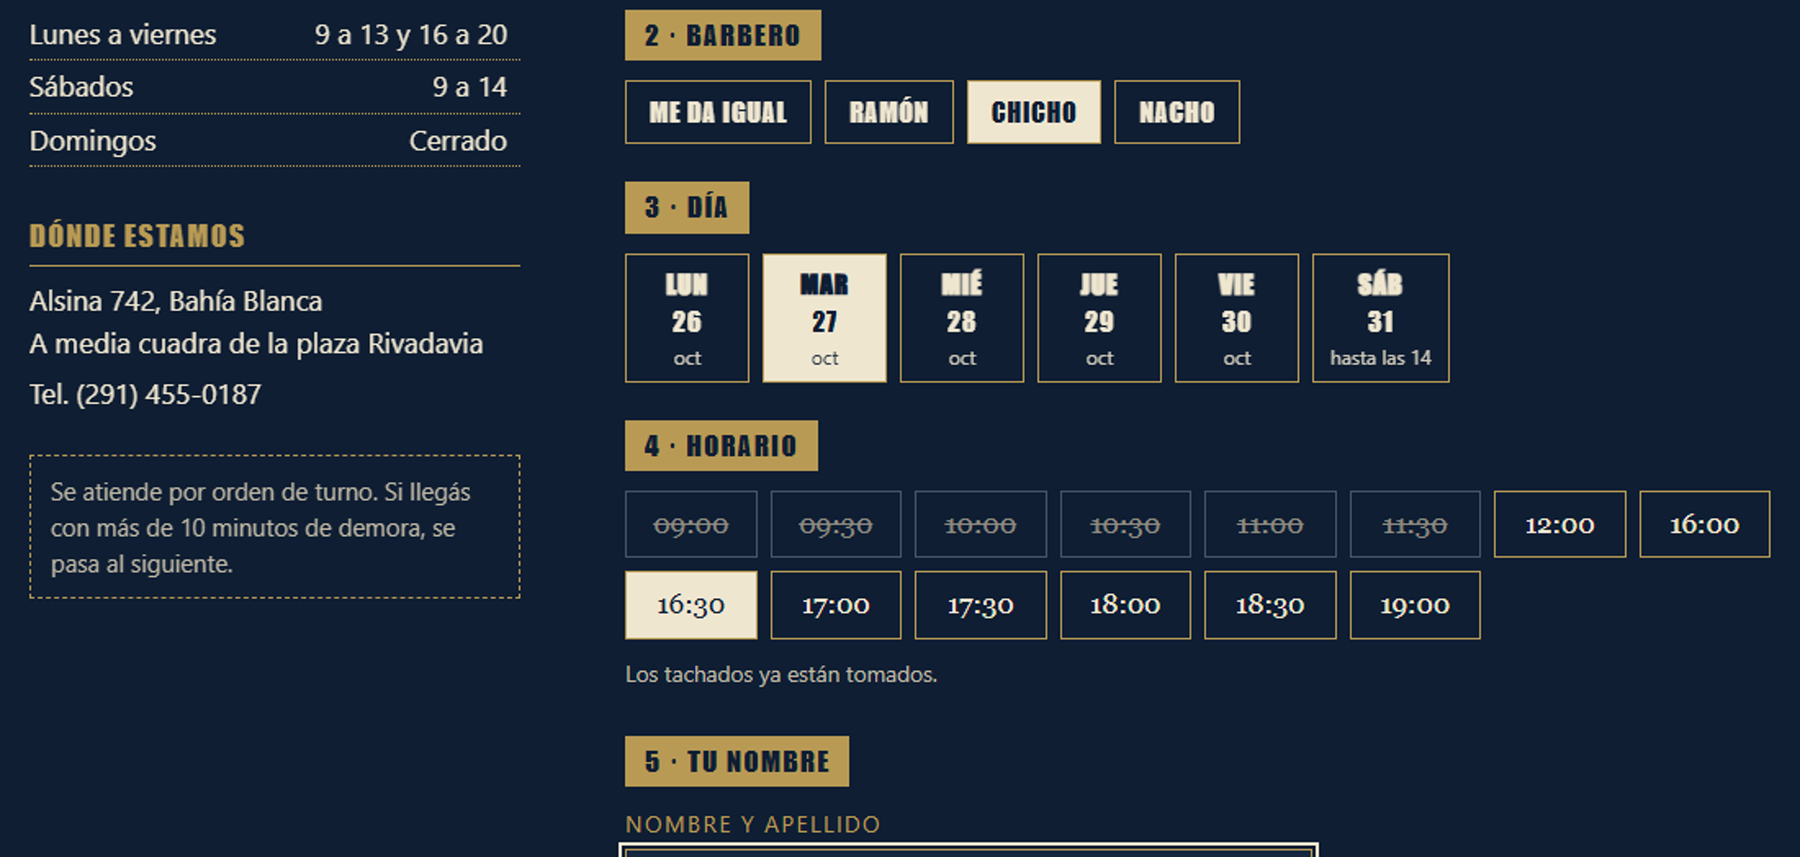
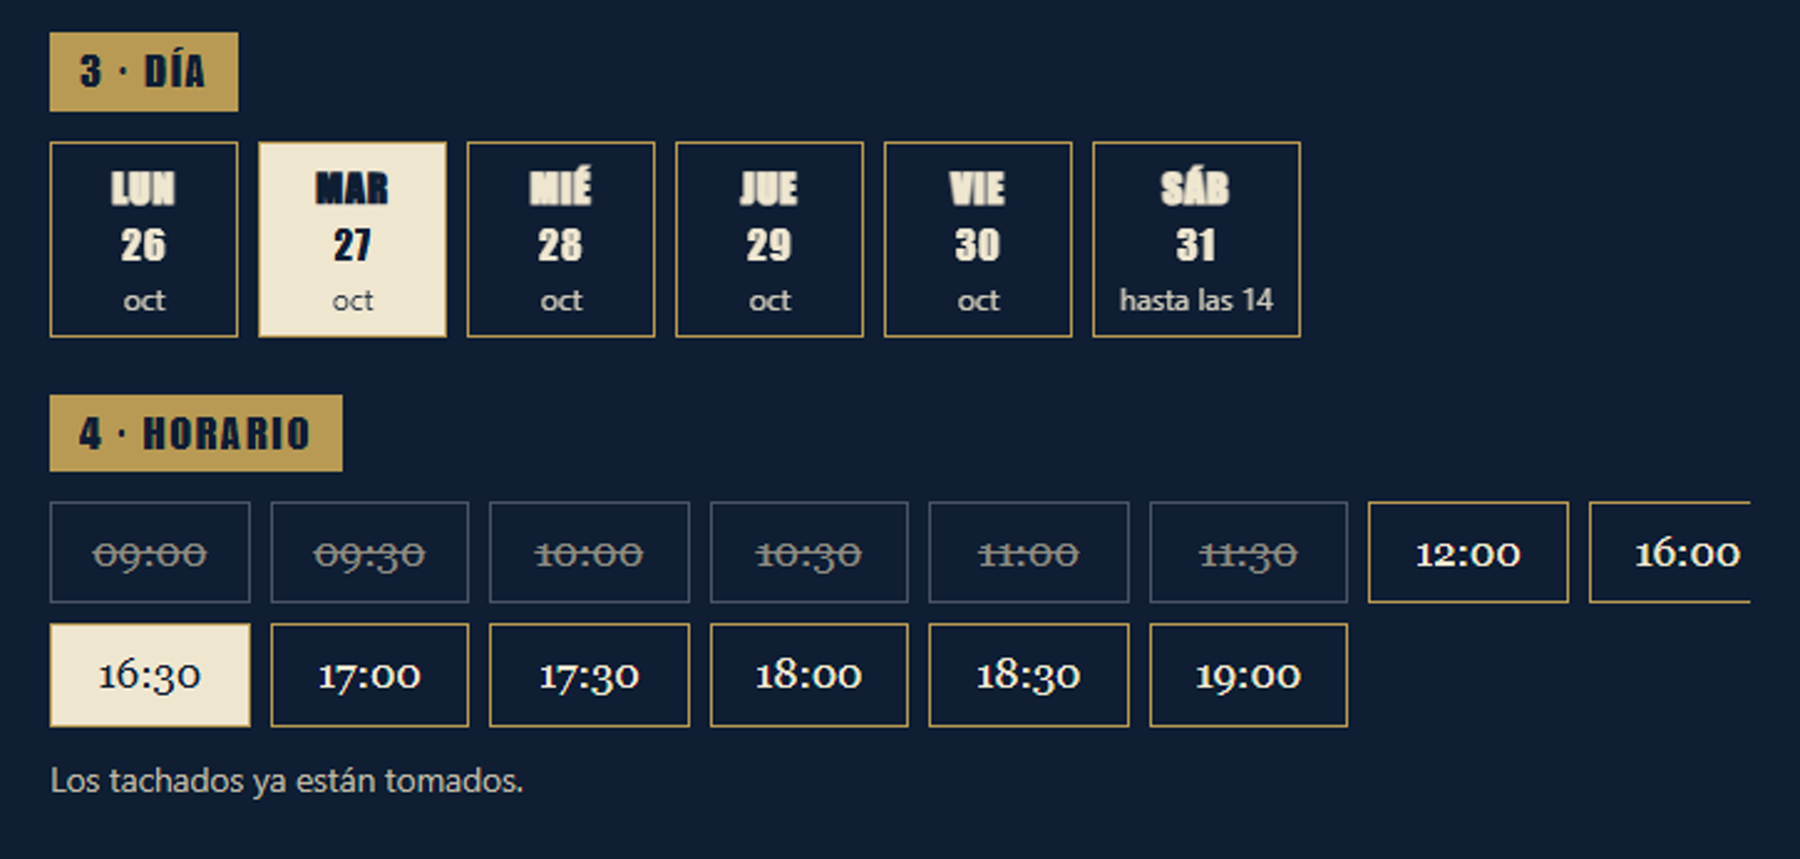
Renombra a Barbería Rivadavia, direccion y barbero Hugo

diff --git a/src/turnos.test.js b/src/turnos.test.js
@@ -37,7 +37,7 @@ test('sábado corta a las 14 y domingo no tiene horarios', () => {
 })
 
 test('los ocupados son estables: mismo dato, mismo resultado', () => {
-  assert.equal(barberoOcupado('2026-10-26', 'ramon', '10:00'), barberoOcupado('2026-10-26', 'ramon', '10:00'))
+  assert.equal(barberoOcupado('2026-10-26', 'hugo', '10:00'), barberoOcupado('2026-10-26', 'hugo', '10:00'))
   const a = grilla('2026-10-26', 30, 'nacho')
   const b = grilla('2026-10-26', 30, 'nacho')
   assert.deepEqual(a, b)
@@ -73,7 +73,7 @@ test('faltantes y su texto', () => {
 test('el mensaje trae todos los datos y el link está codificado', () => {
   const datos = { servicio: servicios[2], barbero: barberos[0], fecha: '2026-10-27', hora: '10:30', nombre: ' Leo ' }
   const m = mensaje(datos, negocio)
-  for (const parte of ['Leo', 'Corte y barba', '60 min', '$15.000', 'Ramón', 'martes 27 de octubre', '10:30']) {
+  for (const parte of ['Leo', 'Corte y barba', '60 min', '$15.000', 'Hola, Barbería Rivadavia.', 'Hugo','martes 27 de octubre', '10:30']) {
     assert.ok(m.includes(parte), parte)
   }
   const url = linkWhatsapp(datos, negocio)

diff --git a/src/config.js b/src/config.js
@@ -1,10 +1,10 @@
 // Datos del negocio. Para adaptarlo a otra barbería, cambiá solo este archivo.
 export const negocio = {
-  nombre: 'Don Ramón',
+  nombre: 'Barbería Rivadavia',
   telefono: '5491112345678', // número de ejemplo para wa.me
   telefonoVisible: '(291) 455-0187',
-  direccion: 'Alsina 742, Bahía Blanca',
-  referencia: 'A media cuadra de la plaza Rivadavia',
+  direccion: 'Rivadavia 640, Bahía Blanca',
+  referencia: 'Casi esquina Brown',
   desde: 1974,
 }
 
@@ -34,7 +34,7 @@ export const servicios = [
 ]
 
 export const barberos = [
-  { id: 'ramon', nombre: 'Ramón' },
+  { id: 'hugo', nombre: 'Hugo' },
   { id: 'chicho', nombre: 'Chicho' },
   { id: 'nacho', nombre: 'Nacho' },
 ]

diff --git a/src/styles.css b/src/styles.css
@@ -78,7 +78,7 @@ input[type=radio] { position: absolute; opacity: 0; pointer-events: none; }
   font: inherit; font-family: Georgia, serif; padding: 7px 0; background: transparent; color: var(--crema);
   border: 1px solid var(--laton); cursor: pointer;
 }
-.hora:hover:not(:disabled) { background: #23395a; }
+.hora:hover:not(:disabled):not(.on) { background: #23395a; }
 .hora.on { background: var(--crema); color: var(--marino); }
 .hora:disabled { color: #8d8a80; border-color: #4a5468; text-decoration: line-through; cursor: not-allowed; }
 .nota { color: var(--crema2); margin: 0 0 6px; }

diff --git a/src/turnos.js b/src/turnos.js
@@ -105,7 +105,7 @@ export function textoFaltantes(lista) {
 export function mensaje({ servicio, barbero, fecha, hora, nombre }, negocio) {
   const quien = barbero ? barbero.nombre : 'el que esté libre'
   return [
-    `Hola, soy ${nombre.trim()}. Quiero sacar un turno en ${negocio.nombre}:`,
+    `Hola, ${negocio.nombre}. Soy ${nombre.trim()} y quiero sacar un turno:`,
     `Servicio: ${servicio.nombre} (${servicio.minutos} min, ${formatoPrecio(servicio.precio)})`,
     `Barbero: ${quien}`,
     `Día: ${etiquetaDia(fecha)}`,

diff --git a/src/App.jsx b/src/App.jsx
@@ -38,7 +38,7 @@ export default function App() {
     <div className="pagina">
       <aside className="cartel">
         <p className="desde">Desde {negocio.desde}</p>
-        <h1>Barbería<br />{negocio.nombre}</h1>
+        <h1>{negocio.nombre.split(' ')[0]}<br />{negocio.nombre.split(' ').slice(1).join(' ')}</h1>
         <p className="bajada">Corte, barba y charla. Sacá el turno acá y se confirma por WhatsApp.</p>
 
         <h2>Horarios</h2>

diff --git a/index.html b/index.html
@@ -3,7 +3,7 @@
   <head>
     <meta charset="UTF-8" />
     <meta name="viewport" content="width=device-width, initial-scale=1.0" />
-    <title>Barbería Don Ramón · Turnos por WhatsApp</title>
+    <title>Barbería Rivadavia · Turnos por WhatsApp</title>
   </head>
   <body>
     <div id="root"></div>

diff --git a/README.md b/README.md
@@ -1,4 +1,4 @@
-# Barbería Don Ramón · Turnos por WhatsApp
+# Barbería Rivadavia · Turnos por WhatsApp
 
 Sitio de ejemplo de una barbería de barrio (ficticia, en Bahía Blanca). El cliente elige servicio, barbero, día y horario, escribe su nombre y toca "Pedir turno por WhatsApp": se abre WhatsApp con el mensaje armado. Si falta algún dato, el botón dice cuál.
 
